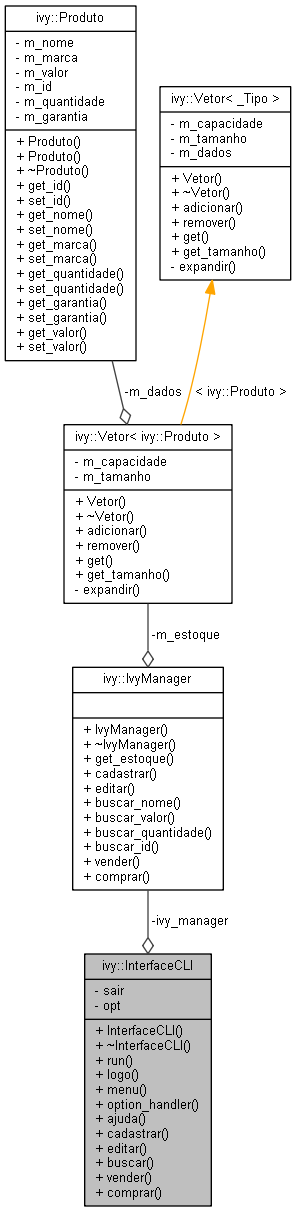
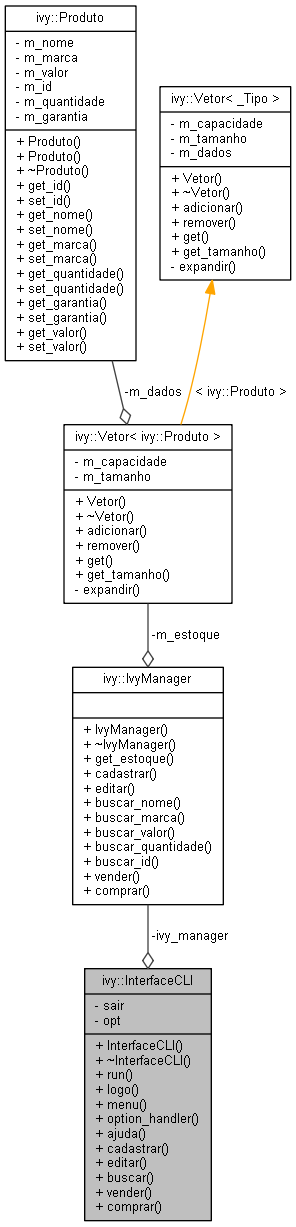
atualizada a documentacao

Changed region(s): [[0.0304, 0.0, 0.973, 1.0], [0.7905, 0.3053, 0.9122, 0.3358]]

diff --git a/doc/html/_ivy_manager_8hpp_source.html b/doc/html/_ivy_manager_8hpp_source.html
@@ -92,23 +92,24 @@ $(document).ready(function(){initNavTree('_ivy_manager_8hpp_source.html','');});
 <div class="title">IvyManager.hpp</div>  </div>
 </div><!--header-->
 <div class="contents">
-<a href="_ivy_manager_8hpp.html">Go to the documentation of this file.</a><div class="fragment"><div class="line"><a name="l00001"></a><span class="lineno">    1</span>&#160;<span class="preprocessor">#pragma once</span></div><div class="line"><a name="l00002"></a><span class="lineno">    2</span>&#160;<span class="preprocessor">#include &lt;iostream&gt;</span></div><div class="line"><a name="l00003"></a><span class="lineno">    3</span>&#160;<span class="preprocessor">#include &quot;<a class="code" href="_produto_8hpp.html">produto/Produto.hpp</a>&quot;</span></div><div class="line"><a name="l00004"></a><span class="lineno">    4</span>&#160;<span class="preprocessor">#include &quot;<a class="code" href="_vetor_8hpp.html">vetor/Vetor.hpp</a>&quot;</span></div><div class="line"><a name="l00005"></a><span class="lineno">    5</span>&#160;</div><div class="line"><a name="l00006"></a><span class="lineno">    6</span>&#160;<span class="keyword">namespace </span><a class="code" href="namespaceivy.html">ivy</a></div><div class="line"><a name="l00007"></a><span class="lineno">    7</span>&#160;{</div><div class="line"><a name="l00012"></a><span class="lineno"><a class="line" href="classivy_1_1_ivy_manager.html">   12</a></span>&#160;<span class="keyword">class </span><a class="code" href="classivy_1_1_ivy_manager.html">IvyManager</a></div><div class="line"><a name="l00013"></a><span class="lineno">   13</span>&#160;{</div><div class="line"><a name="l00014"></a><span class="lineno">   14</span>&#160;<span class="keyword">private</span>:</div><div class="line"><a name="l00019"></a><span class="lineno"><a class="line" href="classivy_1_1_ivy_manager.html#a8f7d90a81e49c07063f6e4cff151a324">   19</a></span>&#160;    <a class="code" href="classivy_1_1_vetor.html">Vetor&lt;Produto&gt;</a> <a class="code" href="classivy_1_1_ivy_manager.html#a8f7d90a81e49c07063f6e4cff151a324">m_estoque</a>;</div><div class="line"><a name="l00020"></a><span class="lineno">   20</span>&#160;</div><div class="line"><a name="l00021"></a><span class="lineno">   21</span>&#160;<span class="keyword">public</span>:</div><div class="line"><a name="l00026"></a><span class="lineno">   26</span>&#160;    <a class="code" href="classivy_1_1_ivy_manager.html#a40a1420880e16e1acc2f0e53007697f5">IvyManager</a>();</div><div class="line"><a name="l00027"></a><span class="lineno">   27</span>&#160;</div><div class="line"><a name="l00032"></a><span class="lineno">   32</span>&#160;    <a class="code" href="classivy_1_1_ivy_manager.html#a47c9763110e866c11b4f5bbabad968f8">~IvyManager</a>();</div><div class="line"><a name="l00033"></a><span class="lineno">   33</span>&#160;</div><div class="line"><a name="l00039"></a><span class="lineno">   39</span>&#160;    <span class="keyword">const</span> <a class="code" href="classivy_1_1_vetor.html">Vetor&lt;Produto&gt;</a> &amp;<a class="code" href="classivy_1_1_ivy_manager.html#a8bba050a38b7ce47833722d6b055e5ca">get_estoque</a>() <span class="keyword">const</span>;</div><div class="line"><a name="l00040"></a><span class="lineno">   40</span>&#160;</div><div class="line"><a name="l00046"></a><span class="lineno">   46</span>&#160;    <span class="keywordtype">void</span> <a class="code" href="classivy_1_1_ivy_manager.html#acd458e0a560bcfa92445953d12f9ecc3">cadastrar</a>(<a class="code" href="classivy_1_1_produto.html">Produto</a> nProduto);</div><div class="line"><a name="l00047"></a><span class="lineno">   47</span>&#160;</div><div class="line"><a name="l00054"></a><span class="lineno">   54</span>&#160;    <span class="keywordtype">void</span> <a class="code" href="classivy_1_1_ivy_manager.html#ad0e743c6bf2fad8fd1a6647441ad2229">editar</a>(<span class="keywordtype">int</span> nId, <a class="code" href="classivy_1_1_produto.html">Produto</a> nProduto);</div><div class="line"><a name="l00055"></a><span class="lineno">   55</span>&#160;</div><div class="line"><a name="l00062"></a><span class="lineno">   62</span>&#160;    <span class="keywordtype">int</span> <a class="code" href="classivy_1_1_ivy_manager.html#aa6f15b794671fda4f01c9d16fd275dac">buscar_nome</a>(std::string nNome);</div><div class="line"><a name="l00063"></a><span class="lineno">   63</span>&#160;</div><div class="line"><a name="l00070"></a><span class="lineno">   70</span>&#160;    <span class="keywordtype">int</span> <a class="code" href="classivy_1_1_ivy_manager.html#aa8e2bc564a58f2a3dfc6d5f2d3fe7667">buscar_valor</a>(<span class="keywordtype">float</span> nValor);</div><div class="line"><a name="l00071"></a><span class="lineno">   71</span>&#160;</div><div class="line"><a name="l00078"></a><span class="lineno">   78</span>&#160;    <span class="keywordtype">int</span> <a class="code" href="classivy_1_1_ivy_manager.html#a8fe8d15d8cdfd40247622a762ea51904">buscar_quantidade</a>(<span class="keywordtype">int</span> nQuantidade);</div><div class="line"><a name="l00079"></a><span class="lineno">   79</span>&#160;</div><div class="line"><a name="l00086"></a><span class="lineno">   86</span>&#160;    <span class="keywordtype">int</span> <a class="code" href="classivy_1_1_ivy_manager.html#a9266231d627a49b6ff5cc1b31013d516">buscar_id</a>(<span class="keywordtype">int</span> nId);</div><div class="line"><a name="l00087"></a><span class="lineno">   87</span>&#160;</div><div class="line"><a name="l00094"></a><span class="lineno">   94</span>&#160;    <span class="keywordtype">void</span> <a class="code" href="classivy_1_1_ivy_manager.html#a8d0ee72f26e21719287003017bc3da56">vender</a>(<span class="keywordtype">int</span> nId, <span class="keywordtype">int</span> nQuantidade);</div><div class="line"><a name="l00095"></a><span class="lineno">   95</span>&#160;</div><div class="line"><a name="l00102"></a><span class="lineno">  102</span>&#160;    <span class="keywordtype">void</span> <a class="code" href="classivy_1_1_ivy_manager.html#ab8ed039c08dfc2720ade3c4ca990580a">comprar</a>(<span class="keywordtype">int</span> nId, <span class="keywordtype">int</span> nQuantidade);</div><div class="line"><a name="l00103"></a><span class="lineno">  103</span>&#160;};</div><div class="line"><a name="l00104"></a><span class="lineno">  104</span>&#160;} <span class="comment">// namespace ivy</span></div><div class="ttc" id="classivy_1_1_ivy_manager_html_acd458e0a560bcfa92445953d12f9ecc3"><div class="ttname"><a href="classivy_1_1_ivy_manager.html#acd458e0a560bcfa92445953d12f9ecc3">ivy::IvyManager::cadastrar</a></div><div class="ttdeci">void cadastrar(Produto nProduto)</div><div class="ttdoc">Cadastra um novo Produto no estoque.</div><div class="ttdef"><b>Definition:</b> IvyManager.cpp:18</div></div>
+<a href="_ivy_manager_8hpp.html">Go to the documentation of this file.</a><div class="fragment"><div class="line"><a name="l00001"></a><span class="lineno">    1</span>&#160;<span class="preprocessor">#pragma once</span></div><div class="line"><a name="l00002"></a><span class="lineno">    2</span>&#160;<span class="preprocessor">#include &lt;iostream&gt;</span></div><div class="line"><a name="l00003"></a><span class="lineno">    3</span>&#160;<span class="preprocessor">#include &quot;<a class="code" href="_produto_8hpp.html">produto/Produto.hpp</a>&quot;</span></div><div class="line"><a name="l00004"></a><span class="lineno">    4</span>&#160;<span class="preprocessor">#include &quot;<a class="code" href="_vetor_8hpp.html">vetor/Vetor.hpp</a>&quot;</span></div><div class="line"><a name="l00005"></a><span class="lineno">    5</span>&#160;</div><div class="line"><a name="l00006"></a><span class="lineno">    6</span>&#160;<span class="keyword">namespace </span><a class="code" href="namespaceivy.html">ivy</a></div><div class="line"><a name="l00007"></a><span class="lineno">    7</span>&#160;{</div><div class="line"><a name="l00012"></a><span class="lineno"><a class="line" href="classivy_1_1_ivy_manager.html">   12</a></span>&#160;<span class="keyword">class </span><a class="code" href="classivy_1_1_ivy_manager.html">IvyManager</a></div><div class="line"><a name="l00013"></a><span class="lineno">   13</span>&#160;{</div><div class="line"><a name="l00014"></a><span class="lineno">   14</span>&#160;<span class="keyword">private</span>:</div><div class="line"><a name="l00019"></a><span class="lineno"><a class="line" href="classivy_1_1_ivy_manager.html#a8f7d90a81e49c07063f6e4cff151a324">   19</a></span>&#160;    <a class="code" href="classivy_1_1_vetor.html">Vetor&lt;Produto&gt;</a> <a class="code" href="classivy_1_1_ivy_manager.html#a8f7d90a81e49c07063f6e4cff151a324">m_estoque</a>;</div><div class="line"><a name="l00020"></a><span class="lineno">   20</span>&#160;</div><div class="line"><a name="l00021"></a><span class="lineno">   21</span>&#160;<span class="keyword">public</span>:</div><div class="line"><a name="l00026"></a><span class="lineno">   26</span>&#160;    <a class="code" href="classivy_1_1_ivy_manager.html#a40a1420880e16e1acc2f0e53007697f5">IvyManager</a>();</div><div class="line"><a name="l00027"></a><span class="lineno">   27</span>&#160;</div><div class="line"><a name="l00032"></a><span class="lineno">   32</span>&#160;    <a class="code" href="classivy_1_1_ivy_manager.html#a47c9763110e866c11b4f5bbabad968f8">~IvyManager</a>();</div><div class="line"><a name="l00033"></a><span class="lineno">   33</span>&#160;</div><div class="line"><a name="l00039"></a><span class="lineno">   39</span>&#160;    <span class="keyword">const</span> <a class="code" href="classivy_1_1_vetor.html">Vetor&lt;Produto&gt;</a> &amp;<a class="code" href="classivy_1_1_ivy_manager.html#a8bba050a38b7ce47833722d6b055e5ca">get_estoque</a>() <span class="keyword">const</span>;</div><div class="line"><a name="l00040"></a><span class="lineno">   40</span>&#160;</div><div class="line"><a name="l00046"></a><span class="lineno">   46</span>&#160;    <span class="keywordtype">void</span> <a class="code" href="classivy_1_1_ivy_manager.html#acd458e0a560bcfa92445953d12f9ecc3">cadastrar</a>(<a class="code" href="classivy_1_1_produto.html">Produto</a> nProduto);</div><div class="line"><a name="l00047"></a><span class="lineno">   47</span>&#160;</div><div class="line"><a name="l00054"></a><span class="lineno">   54</span>&#160;    <span class="keywordtype">void</span> <a class="code" href="classivy_1_1_ivy_manager.html#ad0e743c6bf2fad8fd1a6647441ad2229">editar</a>(<span class="keywordtype">int</span> nId, <a class="code" href="classivy_1_1_produto.html">Produto</a> nProduto);</div><div class="line"><a name="l00055"></a><span class="lineno">   55</span>&#160;</div><div class="line"><a name="l00062"></a><span class="lineno">   62</span>&#160;    <span class="keywordtype">int</span> <a class="code" href="classivy_1_1_ivy_manager.html#aa6f15b794671fda4f01c9d16fd275dac">buscar_nome</a>(std::string nNome);</div><div class="line"><a name="l00063"></a><span class="lineno">   63</span>&#160;</div><div class="line"><a name="l00070"></a><span class="lineno">   70</span>&#160;    <span class="keywordtype">int</span> <a class="code" href="classivy_1_1_ivy_manager.html#aba2ece6983d610f1acd2308d820d1964">buscar_marca</a>(std::string nMarca);</div><div class="line"><a name="l00071"></a><span class="lineno">   71</span>&#160;</div><div class="line"><a name="l00078"></a><span class="lineno">   78</span>&#160;    <span class="keywordtype">int</span> <a class="code" href="classivy_1_1_ivy_manager.html#aa8e2bc564a58f2a3dfc6d5f2d3fe7667">buscar_valor</a>(<span class="keywordtype">float</span> nValor);</div><div class="line"><a name="l00079"></a><span class="lineno">   79</span>&#160;</div><div class="line"><a name="l00086"></a><span class="lineno">   86</span>&#160;    <span class="keywordtype">int</span> <a class="code" href="classivy_1_1_ivy_manager.html#a8fe8d15d8cdfd40247622a762ea51904">buscar_quantidade</a>(<span class="keywordtype">int</span> nQuantidade);</div><div class="line"><a name="l00087"></a><span class="lineno">   87</span>&#160;</div><div class="line"><a name="l00094"></a><span class="lineno">   94</span>&#160;    <span class="keywordtype">int</span> <a class="code" href="classivy_1_1_ivy_manager.html#a9266231d627a49b6ff5cc1b31013d516">buscar_id</a>(<span class="keywordtype">int</span> nId);</div><div class="line"><a name="l00095"></a><span class="lineno">   95</span>&#160;</div><div class="line"><a name="l00102"></a><span class="lineno">  102</span>&#160;    <span class="keywordtype">void</span> <a class="code" href="classivy_1_1_ivy_manager.html#a8d0ee72f26e21719287003017bc3da56">vender</a>(<span class="keywordtype">int</span> nId, <span class="keywordtype">int</span> nQuantidade);</div><div class="line"><a name="l00103"></a><span class="lineno">  103</span>&#160;</div><div class="line"><a name="l00110"></a><span class="lineno">  110</span>&#160;    <span class="keywordtype">void</span> <a class="code" href="classivy_1_1_ivy_manager.html#ab8ed039c08dfc2720ade3c4ca990580a">comprar</a>(<span class="keywordtype">int</span> nId, <span class="keywordtype">int</span> nQuantidade);</div><div class="line"><a name="l00111"></a><span class="lineno">  111</span>&#160;};</div><div class="line"><a name="l00112"></a><span class="lineno">  112</span>&#160;} <span class="comment">// namespace ivy</span></div><div class="ttc" id="classivy_1_1_ivy_manager_html_acd458e0a560bcfa92445953d12f9ecc3"><div class="ttname"><a href="classivy_1_1_ivy_manager.html#acd458e0a560bcfa92445953d12f9ecc3">ivy::IvyManager::cadastrar</a></div><div class="ttdeci">void cadastrar(Produto nProduto)</div><div class="ttdoc">Cadastra um novo Produto no estoque.</div><div class="ttdef"><b>Definition:</b> IvyManager.cpp:18</div></div>
 <div class="ttc" id="classivy_1_1_ivy_manager_html_a47c9763110e866c11b4f5bbabad968f8"><div class="ttname"><a href="classivy_1_1_ivy_manager.html#a47c9763110e866c11b4f5bbabad968f8">ivy::IvyManager::~IvyManager</a></div><div class="ttdeci">~IvyManager()</div><div class="ttdoc">Destroi o objeto de IvyManager.</div><div class="ttdef"><b>Definition:</b> IvyManager.cpp:9</div></div>
 <div class="ttc" id="_vetor_8hpp_html"><div class="ttname"><a href="_vetor_8hpp.html">Vetor.hpp</a></div></div>
 <div class="ttc" id="classivy_1_1_ivy_manager_html_a8bba050a38b7ce47833722d6b055e5ca"><div class="ttname"><a href="classivy_1_1_ivy_manager.html#a8bba050a38b7ce47833722d6b055e5ca">ivy::IvyManager::get_estoque</a></div><div class="ttdeci">const Vetor&lt; Produto &gt; &amp; get_estoque() const</div><div class="ttdoc">Retorna o Vetor do estoque.</div><div class="ttdef"><b>Definition:</b> IvyManager.cpp:13</div></div>
-<div class="ttc" id="classivy_1_1_ivy_manager_html_a8d0ee72f26e21719287003017bc3da56"><div class="ttname"><a href="classivy_1_1_ivy_manager.html#a8d0ee72f26e21719287003017bc3da56">ivy::IvyManager::vender</a></div><div class="ttdeci">void vender(int nId, int nQuantidade)</div><div class="ttdoc">Vende um produto.</div><div class="ttdef"><b>Definition:</b> IvyManager.cpp:105</div></div>
+<div class="ttc" id="classivy_1_1_ivy_manager_html_aba2ece6983d610f1acd2308d820d1964"><div class="ttname"><a href="classivy_1_1_ivy_manager.html#aba2ece6983d610f1acd2308d820d1964">ivy::IvyManager::buscar_marca</a></div><div class="ttdeci">int buscar_marca(std::string nMarca)</div><div class="ttdoc">Busca um produto pela marca.</div><div class="ttdef"><b>Definition:</b> IvyManager.cpp:71</div></div>
+<div class="ttc" id="classivy_1_1_ivy_manager_html_a8d0ee72f26e21719287003017bc3da56"><div class="ttname"><a href="classivy_1_1_ivy_manager.html#a8d0ee72f26e21719287003017bc3da56">ivy::IvyManager::vender</a></div><div class="ttdeci">void vender(int nId, int nQuantidade)</div><div class="ttdoc">Vende um produto.</div><div class="ttdef"><b>Definition:</b> IvyManager.cpp:122</div></div>
 <div class="ttc" id="_produto_8hpp_html"><div class="ttname"><a href="_produto_8hpp.html">Produto.hpp</a></div></div>
 <div class="ttc" id="classivy_1_1_vetor_html"><div class="ttname"><a href="classivy_1_1_vetor.html">ivy::Vetor</a></div><div class="ttdoc">Classe Vetor para manipulacao de vetores.</div><div class="ttdef"><b>Definition:</b> Vetor.hpp:12</div></div>
-<div class="ttc" id="classivy_1_1_ivy_manager_html_aa8e2bc564a58f2a3dfc6d5f2d3fe7667"><div class="ttname"><a href="classivy_1_1_ivy_manager.html#aa8e2bc564a58f2a3dfc6d5f2d3fe7667">ivy::IvyManager::buscar_valor</a></div><div class="ttdeci">int buscar_valor(float nValor)</div><div class="ttdoc">Busca um produto pelo valor.</div><div class="ttdef"><b>Definition:</b> IvyManager.cpp:71</div></div>
+<div class="ttc" id="classivy_1_1_ivy_manager_html_aa8e2bc564a58f2a3dfc6d5f2d3fe7667"><div class="ttname"><a href="classivy_1_1_ivy_manager.html#aa8e2bc564a58f2a3dfc6d5f2d3fe7667">ivy::IvyManager::buscar_valor</a></div><div class="ttdeci">int buscar_valor(float nValor)</div><div class="ttdoc">Busca um produto pelo valor.</div><div class="ttdef"><b>Definition:</b> IvyManager.cpp:88</div></div>
 <div class="ttc" id="namespaceivy_html"><div class="ttname"><a href="namespaceivy.html">ivy</a></div><div class="ttdef"><b>Definition:</b> InterfaceCLI.cpp:3</div></div>
 <div class="ttc" id="classivy_1_1_ivy_manager_html_a9266231d627a49b6ff5cc1b31013d516"><div class="ttname"><a href="classivy_1_1_ivy_manager.html#a9266231d627a49b6ff5cc1b31013d516">ivy::IvyManager::buscar_id</a></div><div class="ttdeci">int buscar_id(int nId)</div><div class="ttdoc">Busca um produto pelo numero de identificacao.</div><div class="ttdef"><b>Definition:</b> IvyManager.cpp:40</div></div>
 <div class="ttc" id="classivy_1_1_ivy_manager_html"><div class="ttname"><a href="classivy_1_1_ivy_manager.html">ivy::IvyManager</a></div><div class="ttdoc">Classe IvyManager.</div><div class="ttdef"><b>Definition:</b> IvyManager.hpp:12</div></div>
-<div class="ttc" id="classivy_1_1_ivy_manager_html_ab8ed039c08dfc2720ade3c4ca990580a"><div class="ttname"><a href="classivy_1_1_ivy_manager.html#ab8ed039c08dfc2720ade3c4ca990580a">ivy::IvyManager::comprar</a></div><div class="ttdeci">void comprar(int nId, int nQuantidade)</div><div class="ttdoc">Adiciona quantidade ao estoque.</div><div class="ttdef"><b>Definition:</b> IvyManager.cpp:118</div></div>
+<div class="ttc" id="classivy_1_1_ivy_manager_html_ab8ed039c08dfc2720ade3c4ca990580a"><div class="ttname"><a href="classivy_1_1_ivy_manager.html#ab8ed039c08dfc2720ade3c4ca990580a">ivy::IvyManager::comprar</a></div><div class="ttdeci">void comprar(int nId, int nQuantidade)</div><div class="ttdoc">Adiciona quantidade ao estoque.</div><div class="ttdef"><b>Definition:</b> IvyManager.cpp:135</div></div>
 <div class="ttc" id="classivy_1_1_ivy_manager_html_a40a1420880e16e1acc2f0e53007697f5"><div class="ttname"><a href="classivy_1_1_ivy_manager.html#a40a1420880e16e1acc2f0e53007697f5">ivy::IvyManager::IvyManager</a></div><div class="ttdeci">IvyManager()</div><div class="ttdoc">Constroi um novo objeto de IvyManager.</div><div class="ttdef"><b>Definition:</b> IvyManager.cpp:5</div></div>
 <div class="ttc" id="classivy_1_1_ivy_manager_html_a8f7d90a81e49c07063f6e4cff151a324"><div class="ttname"><a href="classivy_1_1_ivy_manager.html#a8f7d90a81e49c07063f6e4cff151a324">ivy::IvyManager::m_estoque</a></div><div class="ttdeci">Vetor&lt; Produto &gt; m_estoque</div><div class="ttdoc">Estoque de vetor dos produtos.</div><div class="ttdef"><b>Definition:</b> IvyManager.hpp:19</div></div>
 <div class="ttc" id="classivy_1_1_produto_html"><div class="ttname"><a href="classivy_1_1_produto.html">ivy::Produto</a></div><div class="ttdoc">Classe Produto, define um produto para o sistema de estoque Ivy.</div><div class="ttdef"><b>Definition:</b> Produto.hpp:10</div></div>
 <div class="ttc" id="classivy_1_1_ivy_manager_html_ad0e743c6bf2fad8fd1a6647441ad2229"><div class="ttname"><a href="classivy_1_1_ivy_manager.html#ad0e743c6bf2fad8fd1a6647441ad2229">ivy::IvyManager::editar</a></div><div class="ttdeci">void editar(int nId, Produto nProduto)</div><div class="ttdoc">Edita um produto no estoque.</div><div class="ttdef"><b>Definition:</b> IvyManager.cpp:23</div></div>
-<div class="ttc" id="classivy_1_1_ivy_manager_html_a8fe8d15d8cdfd40247622a762ea51904"><div class="ttname"><a href="classivy_1_1_ivy_manager.html#a8fe8d15d8cdfd40247622a762ea51904">ivy::IvyManager::buscar_quantidade</a></div><div class="ttdeci">int buscar_quantidade(int nQuantidade)</div><div class="ttdoc">Busca um produto pela quantidade.</div><div class="ttdef"><b>Definition:</b> IvyManager.cpp:88</div></div>
+<div class="ttc" id="classivy_1_1_ivy_manager_html_a8fe8d15d8cdfd40247622a762ea51904"><div class="ttname"><a href="classivy_1_1_ivy_manager.html#a8fe8d15d8cdfd40247622a762ea51904">ivy::IvyManager::buscar_quantidade</a></div><div class="ttdeci">int buscar_quantidade(int nQuantidade)</div><div class="ttdoc">Busca um produto pela quantidade.</div><div class="ttdef"><b>Definition:</b> IvyManager.cpp:105</div></div>
 <div class="ttc" id="classivy_1_1_ivy_manager_html_aa6f15b794671fda4f01c9d16fd275dac"><div class="ttname"><a href="classivy_1_1_ivy_manager.html#aa6f15b794671fda4f01c9d16fd275dac">ivy::IvyManager::buscar_nome</a></div><div class="ttdeci">int buscar_nome(std::string nNome)</div><div class="ttdoc">Busca um produto pelo nome.</div><div class="ttdef"><b>Definition:</b> IvyManager.cpp:54</div></div>
 </div><!-- fragment --></div><!-- contents -->
 </div><!-- doc-content -->

diff --git a/doc/html/classivy_1_1_ivy_manager-members.html b/doc/html/classivy_1_1_ivy_manager-members.html
@@ -96,17 +96,18 @@ $(document).ready(function(){initNavTree('classivy_1_1_ivy_manager.html','');});
 <p>This is the complete list of members for <a class="el" href="classivy_1_1_ivy_manager.html">ivy::IvyManager</a>, including all inherited members.</p>
 <table class="directory">
   <tr class="even"><td class="entry"><a class="el" href="classivy_1_1_ivy_manager.html#a9266231d627a49b6ff5cc1b31013d516">buscar_id</a>(int nId)</td><td class="entry"><a class="el" href="classivy_1_1_ivy_manager.html">ivy::IvyManager</a></td><td class="entry"></td></tr>
-  <tr><td class="entry"><a class="el" href="classivy_1_1_ivy_manager.html#aa6f15b794671fda4f01c9d16fd275dac">buscar_nome</a>(std::string nNome)</td><td class="entry"><a class="el" href="classivy_1_1_ivy_manager.html">ivy::IvyManager</a></td><td class="entry"></td></tr>
-  <tr class="even"><td class="entry"><a class="el" href="classivy_1_1_ivy_manager.html#a8fe8d15d8cdfd40247622a762ea51904">buscar_quantidade</a>(int nQuantidade)</td><td class="entry"><a class="el" href="classivy_1_1_ivy_manager.html">ivy::IvyManager</a></td><td class="entry"></td></tr>
-  <tr><td class="entry"><a class="el" href="classivy_1_1_ivy_manager.html#aa8e2bc564a58f2a3dfc6d5f2d3fe7667">buscar_valor</a>(float nValor)</td><td class="entry"><a class="el" href="classivy_1_1_ivy_manager.html">ivy::IvyManager</a></td><td class="entry"></td></tr>
-  <tr class="even"><td class="entry"><a class="el" href="classivy_1_1_ivy_manager.html#acd458e0a560bcfa92445953d12f9ecc3">cadastrar</a>(Produto nProduto)</td><td class="entry"><a class="el" href="classivy_1_1_ivy_manager.html">ivy::IvyManager</a></td><td class="entry"></td></tr>
-  <tr><td class="entry"><a class="el" href="classivy_1_1_ivy_manager.html#ab8ed039c08dfc2720ade3c4ca990580a">comprar</a>(int nId, int nQuantidade)</td><td class="entry"><a class="el" href="classivy_1_1_ivy_manager.html">ivy::IvyManager</a></td><td class="entry"></td></tr>
-  <tr class="even"><td class="entry"><a class="el" href="classivy_1_1_ivy_manager.html#ad0e743c6bf2fad8fd1a6647441ad2229">editar</a>(int nId, Produto nProduto)</td><td class="entry"><a class="el" href="classivy_1_1_ivy_manager.html">ivy::IvyManager</a></td><td class="entry"></td></tr>
-  <tr><td class="entry"><a class="el" href="classivy_1_1_ivy_manager.html#a8bba050a38b7ce47833722d6b055e5ca">get_estoque</a>() const</td><td class="entry"><a class="el" href="classivy_1_1_ivy_manager.html">ivy::IvyManager</a></td><td class="entry"></td></tr>
-  <tr class="even"><td class="entry"><a class="el" href="classivy_1_1_ivy_manager.html#a40a1420880e16e1acc2f0e53007697f5">IvyManager</a>()</td><td class="entry"><a class="el" href="classivy_1_1_ivy_manager.html">ivy::IvyManager</a></td><td class="entry"></td></tr>
-  <tr><td class="entry"><a class="el" href="classivy_1_1_ivy_manager.html#a8f7d90a81e49c07063f6e4cff151a324">m_estoque</a></td><td class="entry"><a class="el" href="classivy_1_1_ivy_manager.html">ivy::IvyManager</a></td><td class="entry"><span class="mlabel">private</span></td></tr>
-  <tr class="even"><td class="entry"><a class="el" href="classivy_1_1_ivy_manager.html#a8d0ee72f26e21719287003017bc3da56">vender</a>(int nId, int nQuantidade)</td><td class="entry"><a class="el" href="classivy_1_1_ivy_manager.html">ivy::IvyManager</a></td><td class="entry"></td></tr>
-  <tr><td class="entry"><a class="el" href="classivy_1_1_ivy_manager.html#a47c9763110e866c11b4f5bbabad968f8">~IvyManager</a>()</td><td class="entry"><a class="el" href="classivy_1_1_ivy_manager.html">ivy::IvyManager</a></td><td class="entry"></td></tr>
+  <tr><td class="entry"><a class="el" href="classivy_1_1_ivy_manager.html#aba2ece6983d610f1acd2308d820d1964">buscar_marca</a>(std::string nMarca)</td><td class="entry"><a class="el" href="classivy_1_1_ivy_manager.html">ivy::IvyManager</a></td><td class="entry"></td></tr>
+  <tr class="even"><td class="entry"><a class="el" href="classivy_1_1_ivy_manager.html#aa6f15b794671fda4f01c9d16fd275dac">buscar_nome</a>(std::string nNome)</td><td class="entry"><a class="el" href="classivy_1_1_ivy_manager.html">ivy::IvyManager</a></td><td class="entry"></td></tr>
+  <tr><td class="entry"><a class="el" href="classivy_1_1_ivy_manager.html#a8fe8d15d8cdfd40247622a762ea51904">buscar_quantidade</a>(int nQuantidade)</td><td class="entry"><a class="el" href="classivy_1_1_ivy_manager.html">ivy::IvyManager</a></td><td class="entry"></td></tr>
+  <tr class="even"><td class="entry"><a class="el" href="classivy_1_1_ivy_manager.html#aa8e2bc564a58f2a3dfc6d5f2d3fe7667">buscar_valor</a>(float nValor)</td><td class="entry"><a class="el" href="classivy_1_1_ivy_manager.html">ivy::IvyManager</a></td><td class="entry"></td></tr>
+  <tr><td class="entry"><a class="el" href="classivy_1_1_ivy_manager.html#acd458e0a560bcfa92445953d12f9ecc3">cadastrar</a>(Produto nProduto)</td><td class="entry"><a class="el" href="classivy_1_1_ivy_manager.html">ivy::IvyManager</a></td><td class="entry"></td></tr>
+  <tr class="even"><td class="entry"><a class="el" href="classivy_1_1_ivy_manager.html#ab8ed039c08dfc2720ade3c4ca990580a">comprar</a>(int nId, int nQuantidade)</td><td class="entry"><a class="el" href="classivy_1_1_ivy_manager.html">ivy::IvyManager</a></td><td class="entry"></td></tr>
+  <tr><td class="entry"><a class="el" href="classivy_1_1_ivy_manager.html#ad0e743c6bf2fad8fd1a6647441ad2229">editar</a>(int nId, Produto nProduto)</td><td class="entry"><a class="el" href="classivy_1_1_ivy_manager.html">ivy::IvyManager</a></td><td class="entry"></td></tr>
+  <tr class="even"><td class="entry"><a class="el" href="classivy_1_1_ivy_manager.html#a8bba050a38b7ce47833722d6b055e5ca">get_estoque</a>() const</td><td class="entry"><a class="el" href="classivy_1_1_ivy_manager.html">ivy::IvyManager</a></td><td class="entry"></td></tr>
+  <tr><td class="entry"><a class="el" href="classivy_1_1_ivy_manager.html#a40a1420880e16e1acc2f0e53007697f5">IvyManager</a>()</td><td class="entry"><a class="el" href="classivy_1_1_ivy_manager.html">ivy::IvyManager</a></td><td class="entry"></td></tr>
+  <tr class="even"><td class="entry"><a class="el" href="classivy_1_1_ivy_manager.html#a8f7d90a81e49c07063f6e4cff151a324">m_estoque</a></td><td class="entry"><a class="el" href="classivy_1_1_ivy_manager.html">ivy::IvyManager</a></td><td class="entry"><span class="mlabel">private</span></td></tr>
+  <tr><td class="entry"><a class="el" href="classivy_1_1_ivy_manager.html#a8d0ee72f26e21719287003017bc3da56">vender</a>(int nId, int nQuantidade)</td><td class="entry"><a class="el" href="classivy_1_1_ivy_manager.html">ivy::IvyManager</a></td><td class="entry"></td></tr>
+  <tr class="even"><td class="entry"><a class="el" href="classivy_1_1_ivy_manager.html#a47c9763110e866c11b4f5bbabad968f8">~IvyManager</a>()</td><td class="entry"><a class="el" href="classivy_1_1_ivy_manager.html">ivy::IvyManager</a></td><td class="entry"></td></tr>
 </table></div><!-- contents -->
 </div><!-- doc-content -->
 <!-- start footer part -->

diff --git a/doc/html/_interface_c_l_i_8hpp_source.html b/doc/html/_interface_c_l_i_8hpp_source.html
@@ -98,13 +98,13 @@ $(document).ready(function(){initNavTree('_interface_c_l_i_8hpp_source.html','')
 <div class="ttc" id="classivy_1_1_interface_c_l_i_html_a494550d9c35c5f1ce1efd68cac0a6080"><div class="ttname"><a href="classivy_1_1_interface_c_l_i.html#a494550d9c35c5f1ce1efd68cac0a6080">ivy::InterfaceCLI::cadastrar</a></div><div class="ttdeci">void cadastrar()</div><div class="ttdoc">Entrada dos dados do produto.</div><div class="ttdef"><b>Definition:</b> InterfaceCLI.cpp:95</div></div>
 <div class="ttc" id="classivy_1_1_interface_c_l_i_html_ab1945cf30996bef4223bad7b733583d5"><div class="ttname"><a href="classivy_1_1_interface_c_l_i.html#ab1945cf30996bef4223bad7b733583d5">ivy::InterfaceCLI::ajuda</a></div><div class="ttdeci">void ajuda()</div><div class="ttdoc">Mostra as opcoes.</div><div class="ttdef"><b>Definition:</b> InterfaceCLI.cpp:81</div></div>
 <div class="ttc" id="classivy_1_1_interface_c_l_i_html_a41599a3c68b2fea24d429ce198d16ffb"><div class="ttname"><a href="classivy_1_1_interface_c_l_i.html#a41599a3c68b2fea24d429ce198d16ffb">ivy::InterfaceCLI::editar</a></div><div class="ttdeci">void editar()</div><div class="ttdoc">Edita um produto.</div><div class="ttdef"><b>Definition:</b> InterfaceCLI.cpp:157</div></div>
-<div class="ttc" id="classivy_1_1_interface_c_l_i_html_a2634dfc23bb3fb2cbacfe1bee9c04709"><div class="ttname"><a href="classivy_1_1_interface_c_l_i.html#a2634dfc23bb3fb2cbacfe1bee9c04709">ivy::InterfaceCLI::vender</a></div><div class="ttdeci">void vender()</div><div class="ttdoc">Vende o produto.</div><div class="ttdef"><b>Definition:</b> InterfaceCLI.cpp:164</div></div>
+<div class="ttc" id="classivy_1_1_interface_c_l_i_html_a2634dfc23bb3fb2cbacfe1bee9c04709"><div class="ttname"><a href="classivy_1_1_interface_c_l_i.html#a2634dfc23bb3fb2cbacfe1bee9c04709">ivy::InterfaceCLI::vender</a></div><div class="ttdeci">void vender()</div><div class="ttdoc">Vende o produto.</div><div class="ttdef"><b>Definition:</b> InterfaceCLI.cpp:228</div></div>
 <div class="ttc" id="classivy_1_1_interface_c_l_i_html_aec91bf8a1d5117be60dbdf0b1652876d"><div class="ttname"><a href="classivy_1_1_interface_c_l_i.html#aec91bf8a1d5117be60dbdf0b1652876d">ivy::InterfaceCLI::sair</a></div><div class="ttdeci">bool sair</div><div class="ttdoc">Determina quando o programa deve sair.</div><div class="ttdef"><b>Definition:</b> InterfaceCLI.hpp:27</div></div>
 <div class="ttc" id="classivy_1_1_interface_c_l_i_html_aef9d3a8136593e6b9441f158ca403dc6"><div class="ttname"><a href="classivy_1_1_interface_c_l_i.html#aef9d3a8136593e6b9441f158ca403dc6">ivy::InterfaceCLI::InterfaceCLI</a></div><div class="ttdeci">InterfaceCLI(IvyManager &amp;nIvy_manager)</div><div class="ttdoc">Constroi um objeto de InterfaceCLI.</div><div class="ttdef"><b>Definition:</b> InterfaceCLI.cpp:5</div></div>
 <div class="ttc" id="namespaceivy_html"><div class="ttname"><a href="namespaceivy.html">ivy</a></div><div class="ttdef"><b>Definition:</b> InterfaceCLI.cpp:3</div></div>
 <div class="ttc" id="classivy_1_1_ivy_manager_html"><div class="ttname"><a href="classivy_1_1_ivy_manager.html">ivy::IvyManager</a></div><div class="ttdoc">Classe IvyManager.</div><div class="ttdef"><b>Definition:</b> IvyManager.hpp:12</div></div>
-<div class="ttc" id="classivy_1_1_interface_c_l_i_html_ab4a5ce507d934cd6d21b82ba65ba97f3"><div class="ttname"><a href="classivy_1_1_interface_c_l_i.html#ab4a5ce507d934cd6d21b82ba65ba97f3">ivy::InterfaceCLI::buscar</a></div><div class="ttdeci">void buscar()</div><div class="ttdoc">Busca um produto no estoque.</div><div class="ttdef"><b>Definition:</b> InterfaceCLI.cpp:160</div></div>
-<div class="ttc" id="classivy_1_1_interface_c_l_i_html_aae7a23df61ce414134276a1ecc685c10"><div class="ttname"><a href="classivy_1_1_interface_c_l_i.html#aae7a23df61ce414134276a1ecc685c10">ivy::InterfaceCLI::comprar</a></div><div class="ttdeci">void comprar()</div><div class="ttdoc">Compra um produto.</div><div class="ttdef"><b>Definition:</b> InterfaceCLI.cpp:168</div></div>
+<div class="ttc" id="classivy_1_1_interface_c_l_i_html_ab4a5ce507d934cd6d21b82ba65ba97f3"><div class="ttname"><a href="classivy_1_1_interface_c_l_i.html#ab4a5ce507d934cd6d21b82ba65ba97f3">ivy::InterfaceCLI::buscar</a></div><div class="ttdeci">void buscar()</div><div class="ttdoc">Busca um produto no estoque.</div><div class="ttdef"><b>Definition:</b> InterfaceCLI.cpp:162</div></div>
+<div class="ttc" id="classivy_1_1_interface_c_l_i_html_aae7a23df61ce414134276a1ecc685c10"><div class="ttname"><a href="classivy_1_1_interface_c_l_i.html#aae7a23df61ce414134276a1ecc685c10">ivy::InterfaceCLI::comprar</a></div><div class="ttdeci">void comprar()</div><div class="ttdoc">Compra um produto.</div><div class="ttdef"><b>Definition:</b> InterfaceCLI.cpp:256</div></div>
 <div class="ttc" id="classivy_1_1_interface_c_l_i_html_af43bc4c9ea67bf5cd5c35442d25965a5"><div class="ttname"><a href="classivy_1_1_interface_c_l_i.html#af43bc4c9ea67bf5cd5c35442d25965a5">ivy::InterfaceCLI::opt</a></div><div class="ttdeci">std::string opt</div><div class="ttdoc">Opcoes digitadas pelo usuario.</div><div class="ttdef"><b>Definition:</b> InterfaceCLI.hpp:33</div></div>
 <div class="ttc" id="classivy_1_1_interface_c_l_i_html_ad6dcfbf0aa450dde9dfc81c5ba68646b"><div class="ttname"><a href="classivy_1_1_interface_c_l_i.html#ad6dcfbf0aa450dde9dfc81c5ba68646b">ivy::InterfaceCLI::~InterfaceCLI</a></div><div class="ttdeci">~InterfaceCLI()</div><div class="ttdoc">Destroi o objeto de InterfaceCLI.</div><div class="ttdef"><b>Definition:</b> InterfaceCLI.cpp:11</div></div>
 <div class="ttc" id="classivy_1_1_interface_c_l_i_html_a5e8ba431daf3cf4a14f4d31a7919a38a"><div class="ttname"><a href="classivy_1_1_interface_c_l_i.html#a5e8ba431daf3cf4a14f4d31a7919a38a">ivy::InterfaceCLI::option_handler</a></div><div class="ttdeci">void option_handler()</div><div class="ttdoc">Controle das opcoes.</div><div class="ttdef"><b>Definition:</b> InterfaceCLI.cpp:58</div></div>

diff --git a/doc/html/classivy_1_1_ivy_manager.html b/doc/html/classivy_1_1_ivy_manager.html
@@ -106,7 +106,7 @@ Collaboration diagram for ivy::IvyManager:</div>
 <div class="dyncontent">
 <div class="center"><img src="classivy_1_1_ivy_manager__coll__graph.png" border="0" usemap="#ivy_1_1_ivy_manager_coll__map" alt="Collaboration graph"/></div>
 <map name="ivy_1_1_ivy_manager_coll__map" id="ivy_1_1_ivy_manager_coll__map">
-<area shape="rect"  title="Classe IvyManager." alt="" coords="73,667,223,891"/>
+<area shape="rect"  title="Classe IvyManager." alt="" coords="73,667,223,905"/>
 <area shape="rect"  href="classivy_1_1_vetor.html" title=" " alt="" coords="64,424,232,604"/>
 <area shape="rect"  href="classivy_1_1_produto.html" title="Classe Produto, define um produto para o sistema de estoque Ivy." alt="" coords="5,5,136,361"/>
 <area shape="rect"  href="classivy_1_1_vetor.html" title="Classe Vetor para manipulacao de vetores." alt="" coords="160,86,291,281"/>
@@ -133,6 +133,9 @@ Public Member Functions</h2></td></tr>
 <tr class="memitem:aa6f15b794671fda4f01c9d16fd275dac"><td class="memItemLeft" align="right" valign="top">int&#160;</td><td class="memItemRight" valign="bottom"><a class="el" href="classivy_1_1_ivy_manager.html#aa6f15b794671fda4f01c9d16fd275dac">buscar_nome</a> (std::string nNome)</td></tr>
 <tr class="memdesc:aa6f15b794671fda4f01c9d16fd275dac"><td class="mdescLeft">&#160;</td><td class="mdescRight">Busca um produto pelo nome.  <a href="#aa6f15b794671fda4f01c9d16fd275dac">More...</a><br /></td></tr>
 <tr class="separator:aa6f15b794671fda4f01c9d16fd275dac"><td class="memSeparator" colspan="2">&#160;</td></tr>
+<tr class="memitem:aba2ece6983d610f1acd2308d820d1964"><td class="memItemLeft" align="right" valign="top">int&#160;</td><td class="memItemRight" valign="bottom"><a class="el" href="classivy_1_1_ivy_manager.html#aba2ece6983d610f1acd2308d820d1964">buscar_marca</a> (std::string nMarca)</td></tr>
+<tr class="memdesc:aba2ece6983d610f1acd2308d820d1964"><td class="mdescLeft">&#160;</td><td class="mdescRight">Busca um produto pela marca.  <a href="#aba2ece6983d610f1acd2308d820d1964">More...</a><br /></td></tr>
+<tr class="separator:aba2ece6983d610f1acd2308d820d1964"><td class="memSeparator" colspan="2">&#160;</td></tr>
 <tr class="memitem:aa8e2bc564a58f2a3dfc6d5f2d3fe7667"><td class="memItemLeft" align="right" valign="top">int&#160;</td><td class="memItemRight" valign="bottom"><a class="el" href="classivy_1_1_ivy_manager.html#aa8e2bc564a58f2a3dfc6d5f2d3fe7667">buscar_valor</a> (float nValor)</td></tr>
 <tr class="memdesc:aa8e2bc564a58f2a3dfc6d5f2d3fe7667"><td class="mdescLeft">&#160;</td><td class="mdescRight">Busca um produto pelo valor.  <a href="#aa8e2bc564a58f2a3dfc6d5f2d3fe7667">More...</a><br /></td></tr>
 <tr class="separator:aa8e2bc564a58f2a3dfc6d5f2d3fe7667"><td class="memSeparator" colspan="2">&#160;</td></tr>
@@ -217,6 +220,33 @@ Private Attributes</h2></td></tr>
 <dl class="params"><dt>Parameters</dt><dd>
   <table class="params">
     <tr><td class="paramname">nId</td><td>numero de identificacao do produto </td></tr>
+  </table>
+  </dd>
+</dl>
+<dl class="section return"><dt>Returns</dt><dd>int indice do produto no estoque </dd></dl>
+
+</div>
+</div>
+<a id="aba2ece6983d610f1acd2308d820d1964"></a>
+<h2 class="memtitle"><span class="permalink"><a href="#aba2ece6983d610f1acd2308d820d1964">&#9670;&nbsp;</a></span>buscar_marca()</h2>
+
+<div class="memitem">
+<div class="memproto">
+      <table class="memname">
+        <tr>
+          <td class="memname">int ivy::IvyManager::buscar_marca </td>
+          <td>(</td>
+          <td class="paramtype">std::string&#160;</td>
+          <td class="paramname"><em>nMarca</em></td><td>)</td>
+          <td></td>
+        </tr>
+      </table>
+</div><div class="memdoc">
+
+<p>Busca um produto pela marca. </p>
+<dl class="params"><dt>Parameters</dt><dd>
+  <table class="params">
+    <tr><td class="paramname">nMarca</td><td>marca do produto </td></tr>
   </table>
   </dd>
 </dl>

diff --git a/doc/html/navtreeindex0.js b/doc/html/navtreeindex0.js
@@ -33,16 +33,17 @@ var NAVTREEINDEX0 =
 "classivy_1_1_ivy_manager.html":[1,0,0,1],
 "classivy_1_1_ivy_manager.html#a40a1420880e16e1acc2f0e53007697f5":[1,0,0,1,0],
 "classivy_1_1_ivy_manager.html#a47c9763110e866c11b4f5bbabad968f8":[1,0,0,1,1],
-"classivy_1_1_ivy_manager.html#a8bba050a38b7ce47833722d6b055e5ca":[1,0,0,1,9],
-"classivy_1_1_ivy_manager.html#a8d0ee72f26e21719287003017bc3da56":[1,0,0,1,10],
-"classivy_1_1_ivy_manager.html#a8f7d90a81e49c07063f6e4cff151a324":[1,0,0,1,11],
-"classivy_1_1_ivy_manager.html#a8fe8d15d8cdfd40247622a762ea51904":[1,0,0,1,4],
+"classivy_1_1_ivy_manager.html#a8bba050a38b7ce47833722d6b055e5ca":[1,0,0,1,10],
+"classivy_1_1_ivy_manager.html#a8d0ee72f26e21719287003017bc3da56":[1,0,0,1,11],
+"classivy_1_1_ivy_manager.html#a8f7d90a81e49c07063f6e4cff151a324":[1,0,0,1,12],
+"classivy_1_1_ivy_manager.html#a8fe8d15d8cdfd40247622a762ea51904":[1,0,0,1,5],
 "classivy_1_1_ivy_manager.html#a9266231d627a49b6ff5cc1b31013d516":[1,0,0,1,2],
-"classivy_1_1_ivy_manager.html#aa6f15b794671fda4f01c9d16fd275dac":[1,0,0,1,3],
-"classivy_1_1_ivy_manager.html#aa8e2bc564a58f2a3dfc6d5f2d3fe7667":[1,0,0,1,5],
-"classivy_1_1_ivy_manager.html#ab8ed039c08dfc2720ade3c4ca990580a":[1,0,0,1,7],
-"classivy_1_1_ivy_manager.html#acd458e0a560bcfa92445953d12f9ecc3":[1,0,0,1,6],
-"classivy_1_1_ivy_manager.html#ad0e743c6bf2fad8fd1a6647441ad2229":[1,0,0,1,8],
+"classivy_1_1_ivy_manager.html#aa6f15b794671fda4f01c9d16fd275dac":[1,0,0,1,4],
+"classivy_1_1_ivy_manager.html#aa8e2bc564a58f2a3dfc6d5f2d3fe7667":[1,0,0,1,6],
+"classivy_1_1_ivy_manager.html#ab8ed039c08dfc2720ade3c4ca990580a":[1,0,0,1,8],
+"classivy_1_1_ivy_manager.html#aba2ece6983d610f1acd2308d820d1964":[1,0,0,1,3],
+"classivy_1_1_ivy_manager.html#acd458e0a560bcfa92445953d12f9ecc3":[1,0,0,1,7],
+"classivy_1_1_ivy_manager.html#ad0e743c6bf2fad8fd1a6647441ad2229":[1,0,0,1,9],
 "classivy_1_1_produto.html":[1,0,0,2],
 "classivy_1_1_produto.html#a01f030970068bd9a20fb745090535262":[1,0,0,2,4],
 "classivy_1_1_produto.html#a09fa64660e2b6c6378bc9b280905f6fb":[1,0,0,2,19],
@@ -94,8 +95,8 @@ var NAVTREEINDEX0 =
 "ivy_8hpp_source.html":[2,0,0,0,0,4],
 "main_8cpp.html":[2,0,0,0,1],
 "main_8cpp.html#a3c04138a5bfe5d72780bb7e82a18e627":[2,0,0,0,1,0],
-"namespaceivy.html":[1,0,0],
 "namespaceivy.html":[0,0,0],
+"namespaceivy.html":[1,0,0],
 "namespaces.html":[0,0],
 "pages.html":[]
 };

diff --git a/doc/html/classivy_1_1_interface_c_l_i.html b/doc/html/classivy_1_1_interface_c_l_i.html
@@ -106,8 +106,8 @@ Collaboration diagram for ivy::InterfaceCLI:</div>
 <div class="dyncontent">
 <div class="center"><img src="classivy_1_1_interface_c_l_i__coll__graph.png" border="0" usemap="#ivy_1_1_interface_c_l_i_coll__map" alt="Collaboration graph"/></div>
 <map name="ivy_1_1_interface_c_l_i_coll__map" id="ivy_1_1_interface_c_l_i_coll__map">
-<area shape="rect"  title="Classe InterfaceCLI Realiza a interacao com o usuario." alt="" coords="85,953,211,1207"/>
-<area shape="rect"  href="classivy_1_1_ivy_manager.html" title="Classe IvyManager." alt="" coords="73,667,223,891"/>
+<area shape="rect"  title="Classe InterfaceCLI Realiza a interacao com o usuario." alt="" coords="85,968,211,1221"/>
+<area shape="rect"  href="classivy_1_1_ivy_manager.html" title="Classe IvyManager." alt="" coords="73,667,223,905"/>
 <area shape="rect"  href="classivy_1_1_vetor.html" title=" " alt="" coords="64,424,232,604"/>
 <area shape="rect"  href="classivy_1_1_produto.html" title="Classe Produto, define um produto para o sistema de estoque Ivy." alt="" coords="5,5,136,361"/>
 <area shape="rect"  href="classivy_1_1_vetor.html" title="Classe Vetor para manipulacao de vetores." alt="" coords="160,86,291,281"/>

diff --git a/doc/html/search/all_1.js b/doc/html/search/all_1.js
@@ -2,6 +2,7 @@ var searchData=
 [
   ['buscar',['buscar',['../classivy_1_1_interface_c_l_i.html#ab4a5ce507d934cd6d21b82ba65ba97f3',1,'ivy::InterfaceCLI']]],
   ['buscar_5fid',['buscar_id',['../classivy_1_1_ivy_manager.html#a9266231d627a49b6ff5cc1b31013d516',1,'ivy::IvyManager']]],
+  ['buscar_5fmarca',['buscar_marca',['../classivy_1_1_ivy_manager.html#aba2ece6983d610f1acd2308d820d1964',1,'ivy::IvyManager']]],
   ['buscar_5fnome',['buscar_nome',['../classivy_1_1_ivy_manager.html#aa6f15b794671fda4f01c9d16fd275dac',1,'ivy::IvyManager']]],
   ['buscar_5fquantidade',['buscar_quantidade',['../classivy_1_1_ivy_manager.html#a8fe8d15d8cdfd40247622a762ea51904',1,'ivy::IvyManager']]],
   ['buscar_5fvalor',['buscar_valor',['../classivy_1_1_ivy_manager.html#aa8e2bc564a58f2a3dfc6d5f2d3fe7667',1,'ivy::IvyManager']]]

diff --git a/doc/html/search/functions_1.js b/doc/html/search/functions_1.js
@@ -2,6 +2,7 @@ var searchData=
 [
   ['buscar',['buscar',['../classivy_1_1_interface_c_l_i.html#ab4a5ce507d934cd6d21b82ba65ba97f3',1,'ivy::InterfaceCLI']]],
   ['buscar_5fid',['buscar_id',['../classivy_1_1_ivy_manager.html#a9266231d627a49b6ff5cc1b31013d516',1,'ivy::IvyManager']]],
+  ['buscar_5fmarca',['buscar_marca',['../classivy_1_1_ivy_manager.html#aba2ece6983d610f1acd2308d820d1964',1,'ivy::IvyManager']]],
   ['buscar_5fnome',['buscar_nome',['../classivy_1_1_ivy_manager.html#aa6f15b794671fda4f01c9d16fd275dac',1,'ivy::IvyManager']]],
   ['buscar_5fquantidade',['buscar_quantidade',['../classivy_1_1_ivy_manager.html#a8fe8d15d8cdfd40247622a762ea51904',1,'ivy::IvyManager']]],
   ['buscar_5fvalor',['buscar_valor',['../classivy_1_1_ivy_manager.html#aa8e2bc564a58f2a3dfc6d5f2d3fe7667',1,'ivy::IvyManager']]]

diff --git a/doc/html/classivy_1_1_ivy_manager.js b/doc/html/classivy_1_1_ivy_manager.js
@@ -3,6 +3,7 @@ var classivy_1_1_ivy_manager =
     [ "IvyManager", "classivy_1_1_ivy_manager.html#a40a1420880e16e1acc2f0e53007697f5", null ],
     [ "~IvyManager", "classivy_1_1_ivy_manager.html#a47c9763110e866c11b4f5bbabad968f8", null ],
     [ "buscar_id", "classivy_1_1_ivy_manager.html#a9266231d627a49b6ff5cc1b31013d516", null ],
+    [ "buscar_marca", "classivy_1_1_ivy_manager.html#aba2ece6983d610f1acd2308d820d1964", null ],
     [ "buscar_nome", "classivy_1_1_ivy_manager.html#aa6f15b794671fda4f01c9d16fd275dac", null ],
     [ "buscar_quantidade", "classivy_1_1_ivy_manager.html#a8fe8d15d8cdfd40247622a762ea51904", null ],
     [ "buscar_valor", "classivy_1_1_ivy_manager.html#aa8e2bc564a58f2a3dfc6d5f2d3fe7667", null ],

diff --git a/doc/html/functions_func.html b/doc/html/functions_func.html
@@ -107,6 +107,9 @@ $(document).ready(function(){initNavTree('functions_func.html','');});
 <li>buscar_id()
 : <a class="el" href="classivy_1_1_ivy_manager.html#a9266231d627a49b6ff5cc1b31013d516">ivy::IvyManager</a>
 </li>
+<li>buscar_marca()
+: <a class="el" href="classivy_1_1_ivy_manager.html#aba2ece6983d610f1acd2308d820d1964">ivy::IvyManager</a>
+</li>
 <li>buscar_nome()
 : <a class="el" href="classivy_1_1_ivy_manager.html#aa6f15b794671fda4f01c9d16fd275dac">ivy::IvyManager</a>
 </li>

diff --git a/doc/html/functions.html b/doc/html/functions.html
@@ -107,6 +107,9 @@ $(document).ready(function(){initNavTree('functions.html','');});
 <li>buscar_id()
 : <a class="el" href="classivy_1_1_ivy_manager.html#a9266231d627a49b6ff5cc1b31013d516">ivy::IvyManager</a>
 </li>
+<li>buscar_marca()
+: <a class="el" href="classivy_1_1_ivy_manager.html#aba2ece6983d610f1acd2308d820d1964">ivy::IvyManager</a>
+</li>
 <li>buscar_nome()
 : <a class="el" href="classivy_1_1_ivy_manager.html#aa6f15b794671fda4f01c9d16fd275dac">ivy::IvyManager</a>
 </li>
